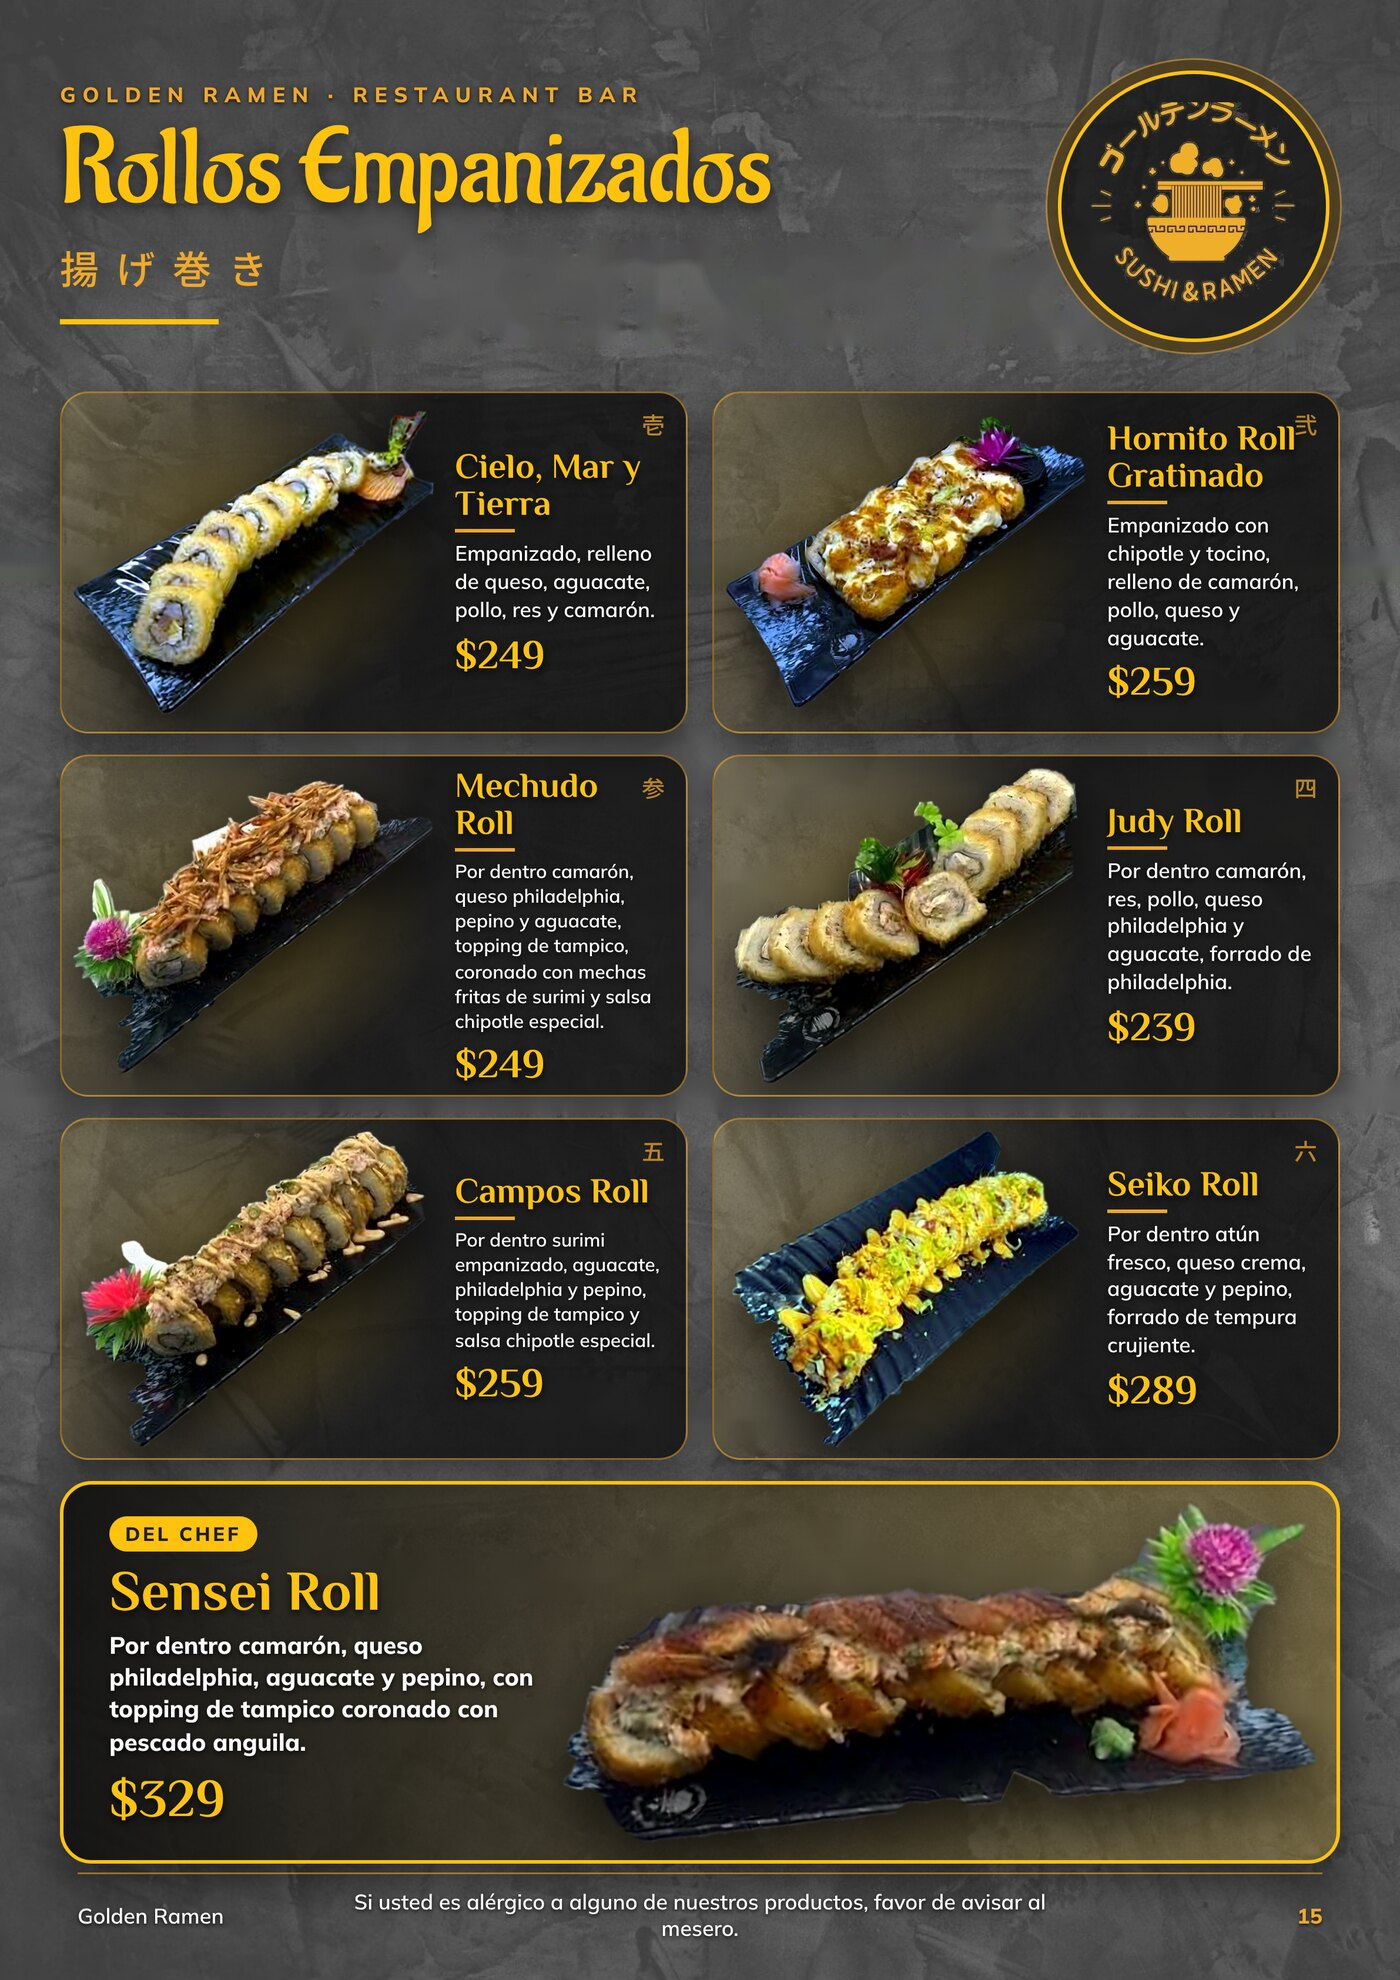
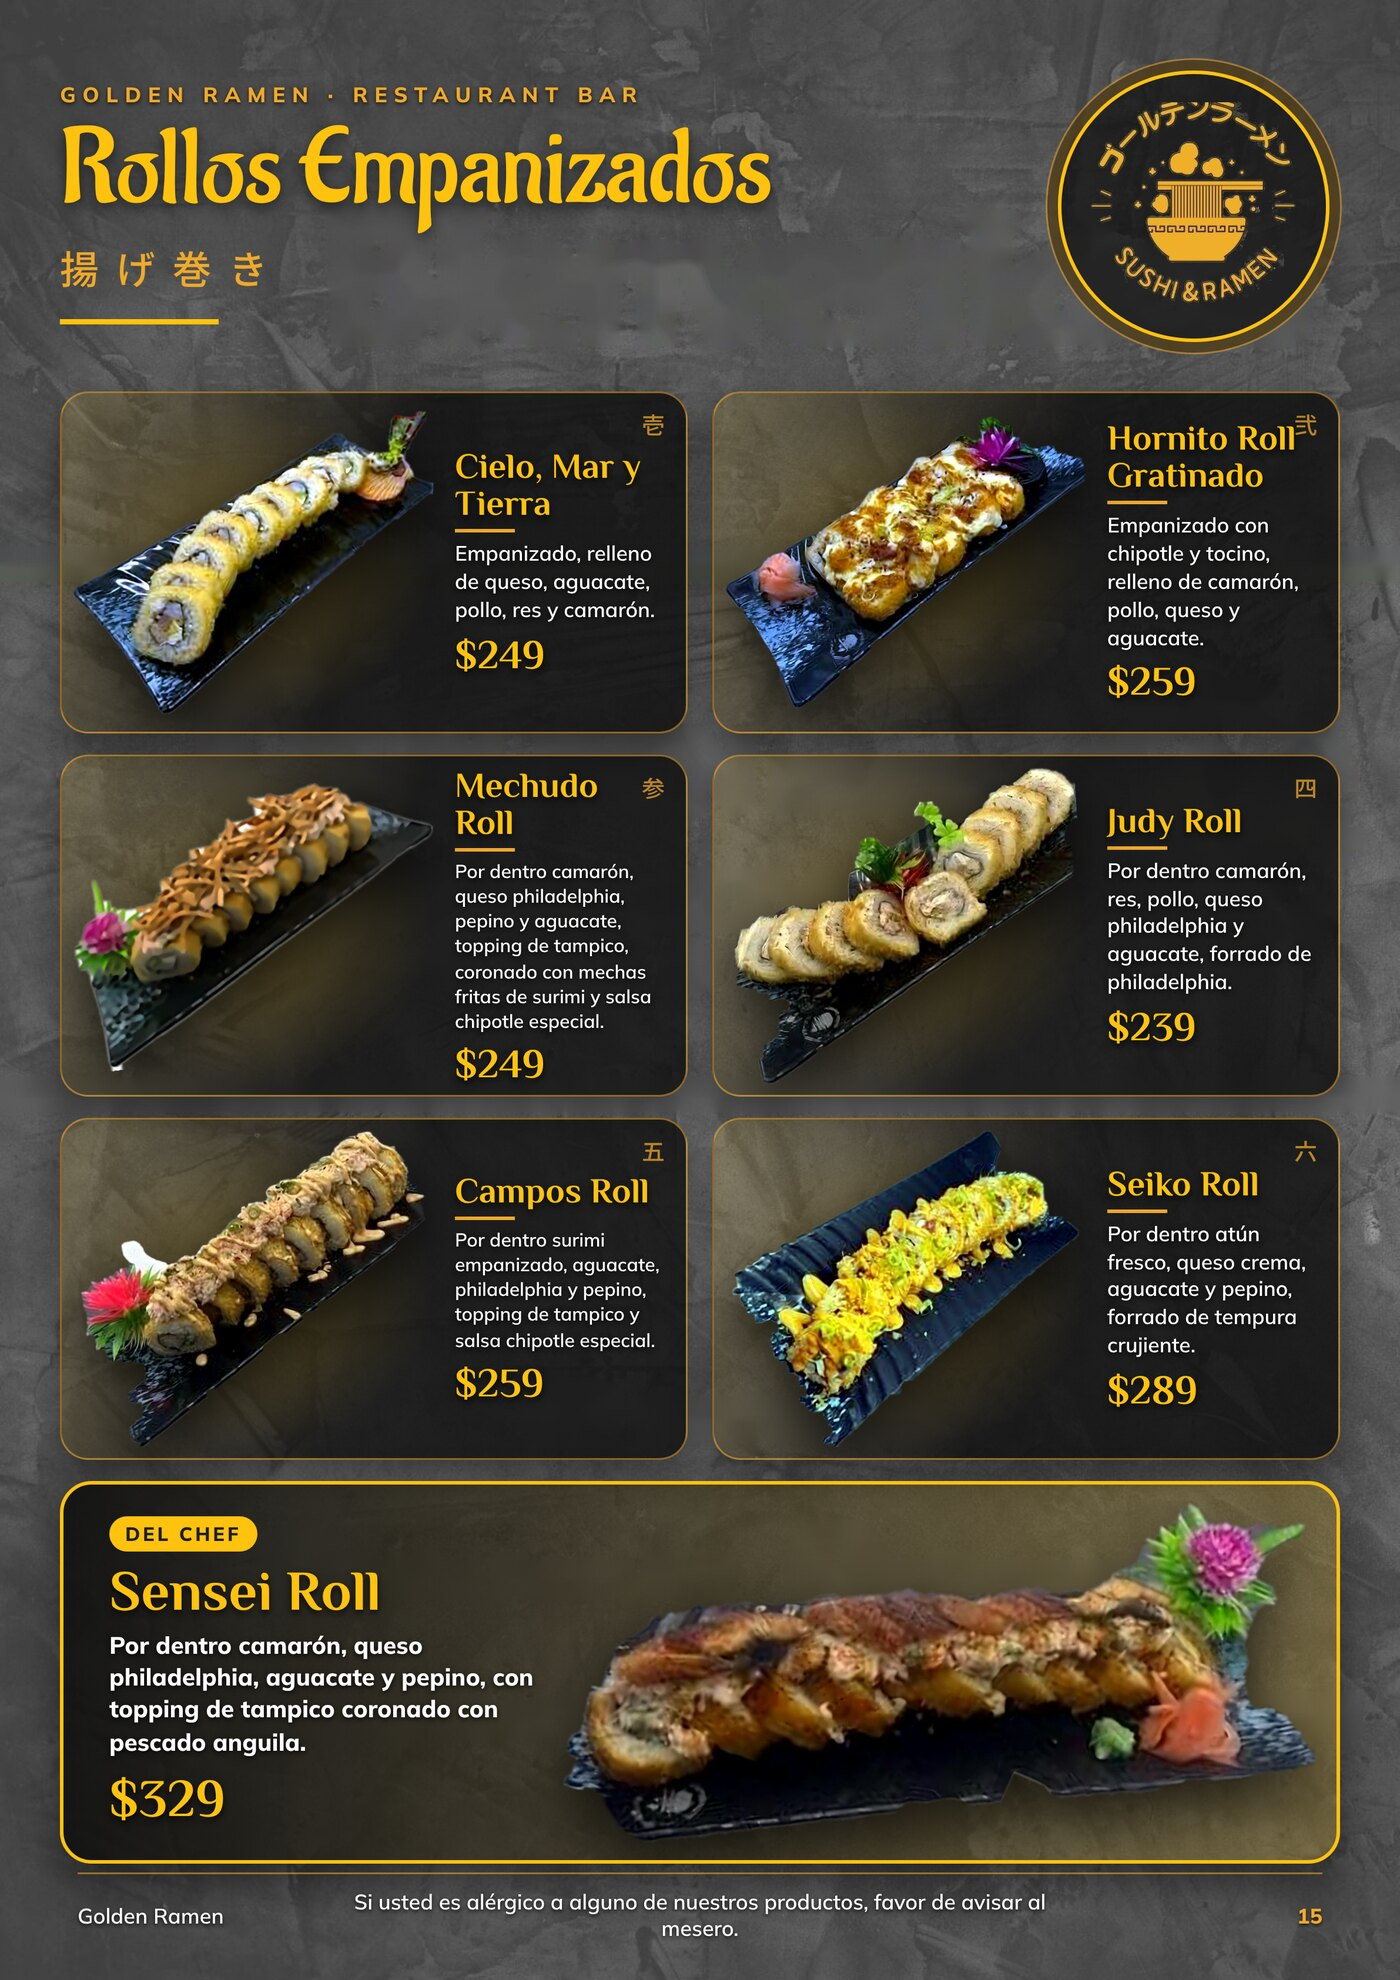
Foto nueva: Mechudo Roll
Claude-Session: https://claude.ai/code/session_019koabpyAAMnZPtrZYFtJVk

Changed region(s): [[0.0307, 0.3697, 0.3071, 0.5545]]

diff --git a/index.html b/index.html
@@ -53,10 +53,10 @@ for(let i=1;i<=N;i++){
   const d=document.createElement('div');
   d.className='page'+((i===1||i===N)?' hard':'');
   if(i===1||i===N) d.setAttribute('data-density','hard');
-  d.innerHTML=`<img src="p${pad(i)}.jpg?v=1794817048" alt="Página ${i} del menú Golden Ramen" ${i>4?'loading="lazy"':''}>`;
+  d.innerHTML=`<img src="p${pad(i)}.jpg?v=1794817116" alt="Página ${i} del menú Golden Ramen" ${i>4?'loading="lazy"':''}>`;
   book.appendChild(d);
   const t=document.createElement('button'); t.className='th'; t.setAttribute('aria-label','Ir a la página '+i);
-  t.innerHTML=`<img src="t${pad(i)}.jpg?v=1794817048" alt="">`; t.onclick=()=>pf&&pf.flip(i-1);
+  t.innerHTML=`<img src="t${pad(i)}.jpg?v=1794817116" alt="">`; t.onclick=()=>pf&&pf.flip(i-1);
   thumbs.appendChild(t);
 }
 let pf=null; let lastW=innerWidth; addEventListener('resize',()=>{ if(Math.abs(innerWidth-lastW)>80){ location.reload(); } });
